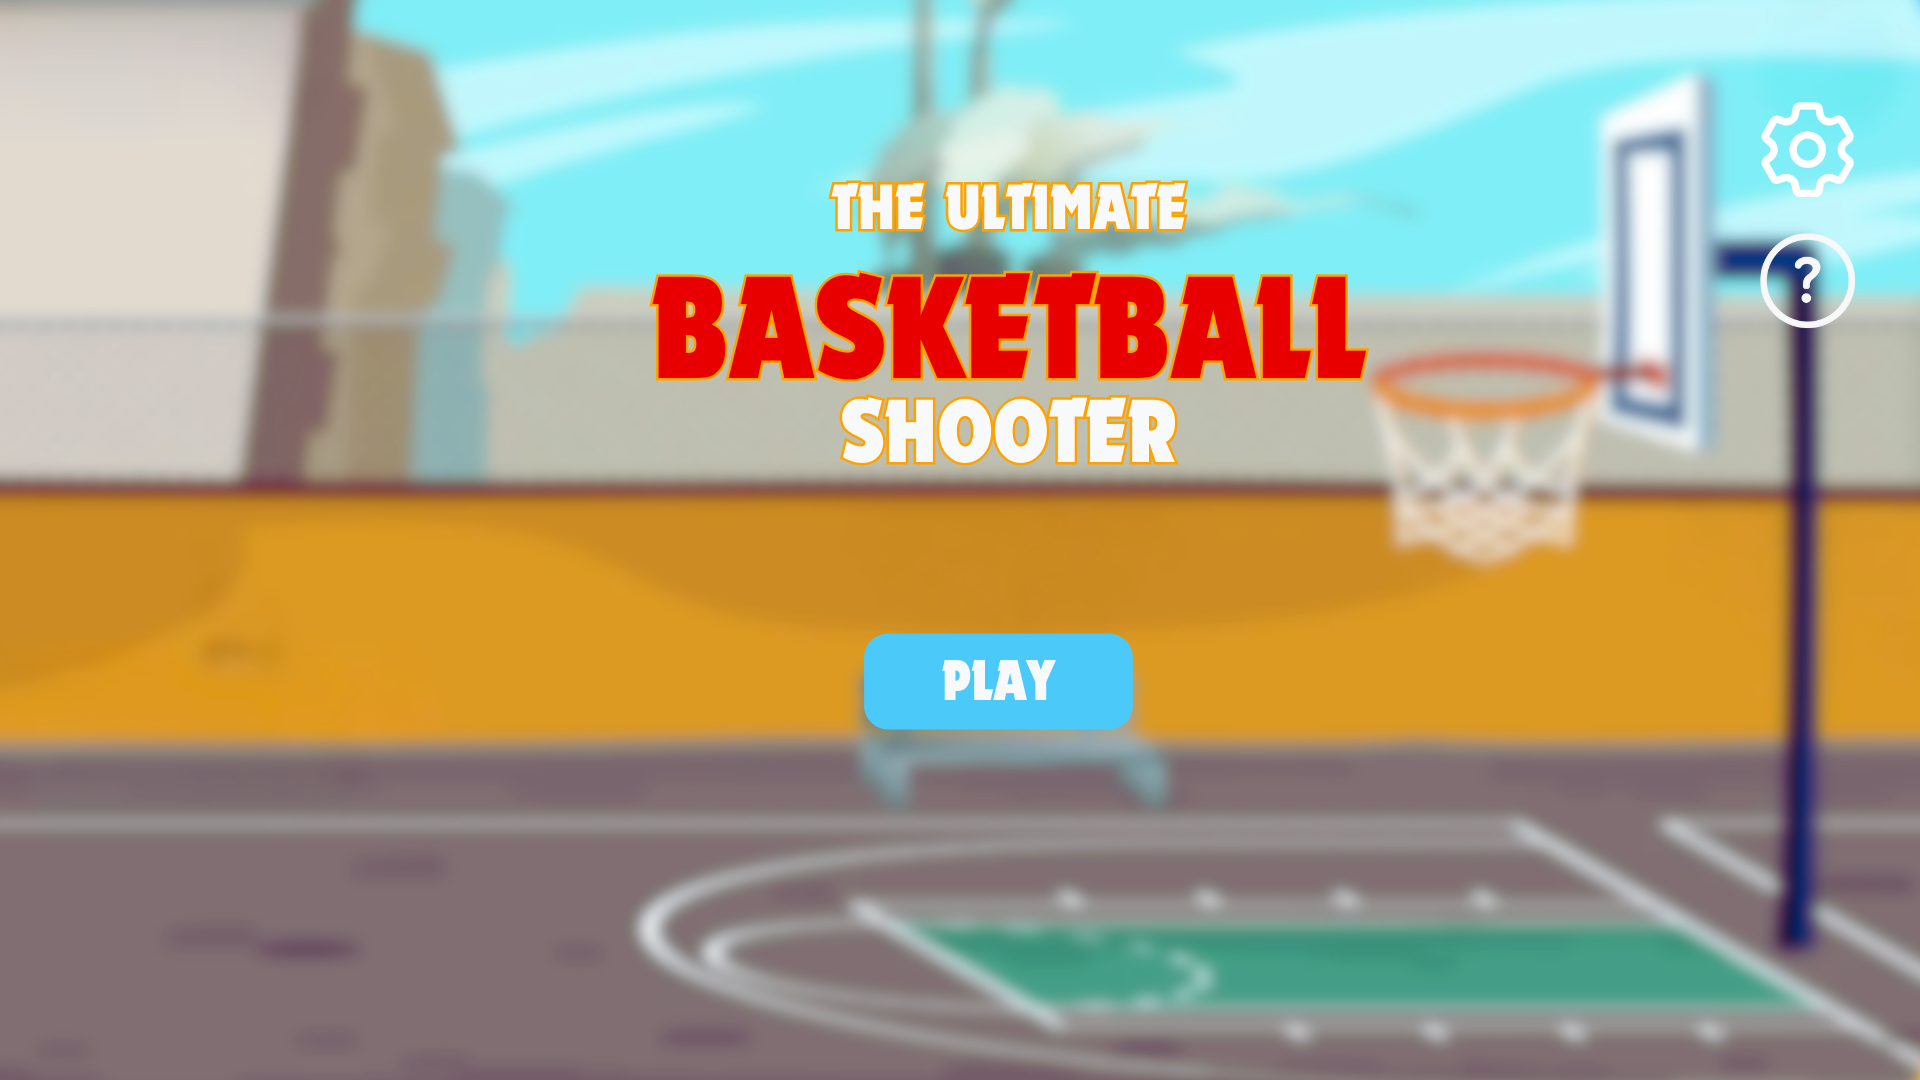
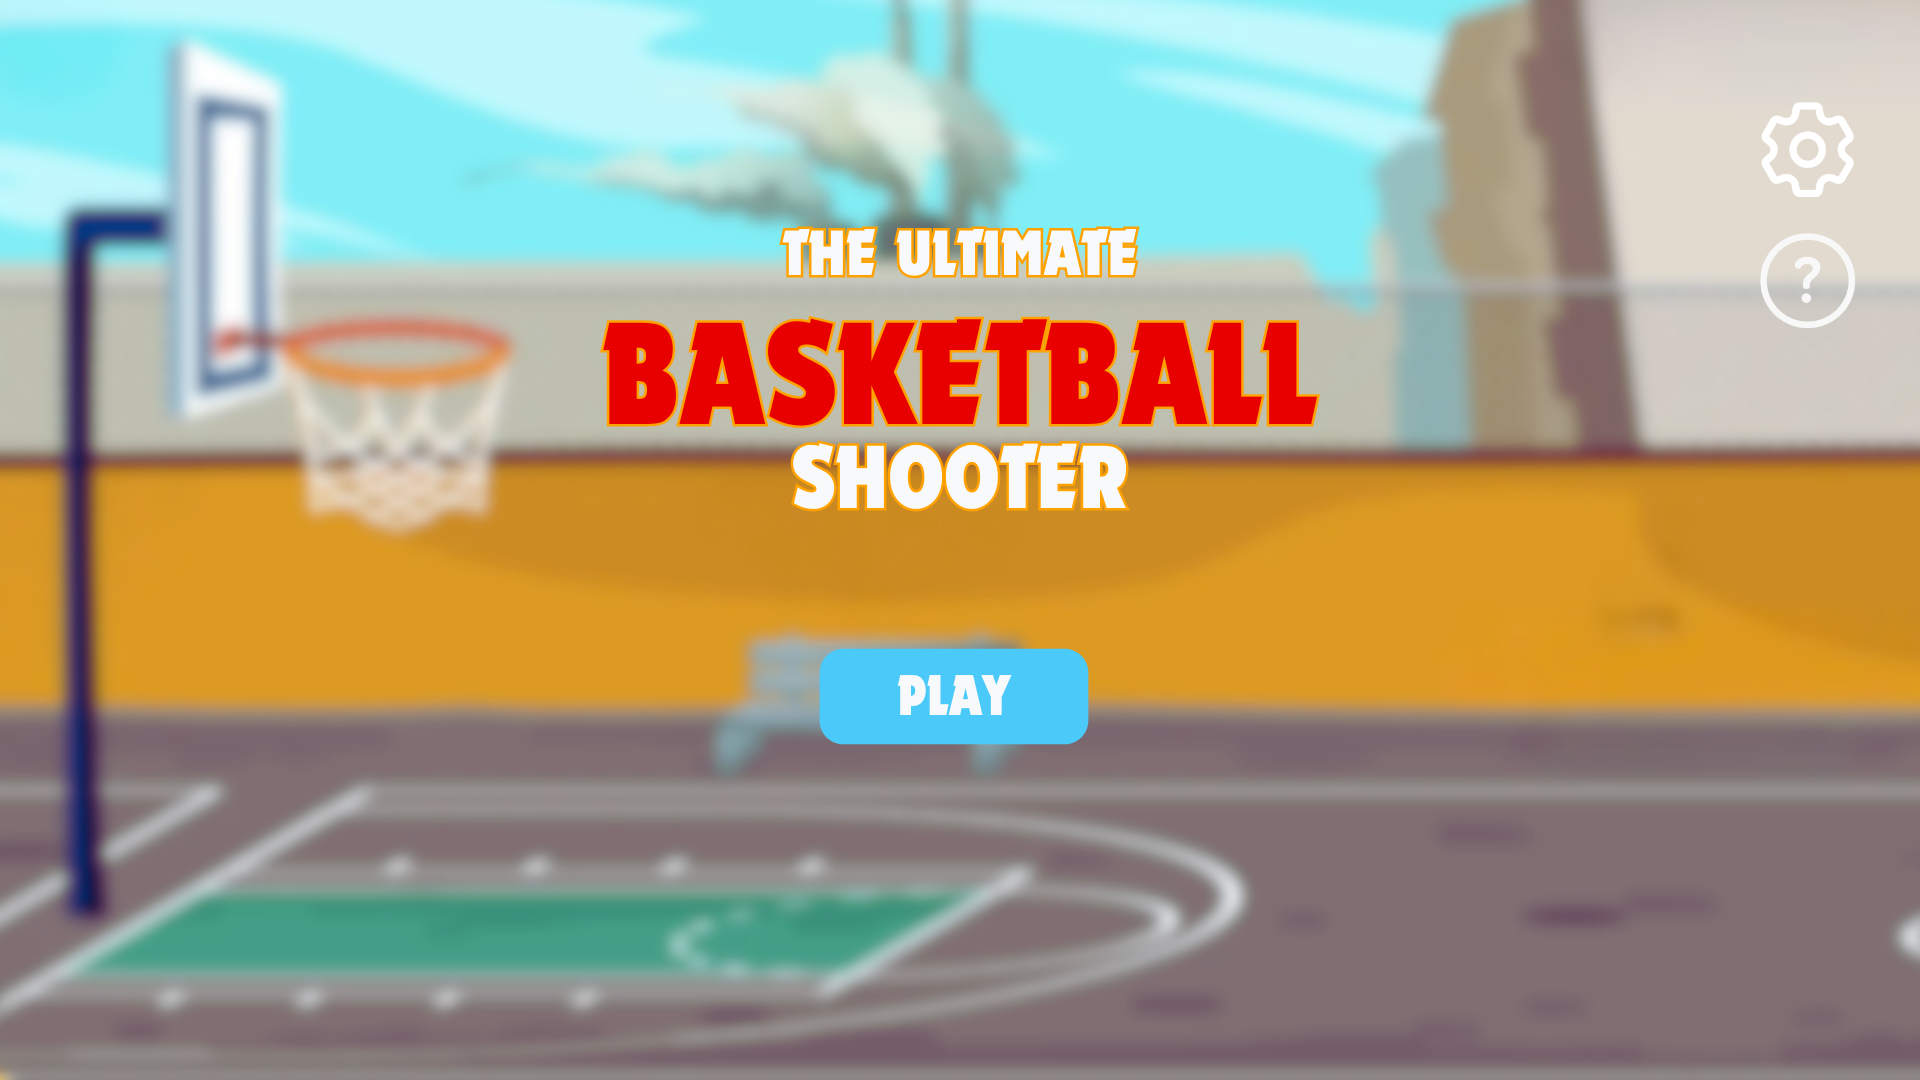
Add GameState, MenuState, Settings State

diff --git a/basketball_game.py b/basketball_game.py
@@ -1,0 +1,84 @@
+import pygame
+import math
+import random
+import sys
+from constants import *
+
+class BasketballGame:
+    def __init__(self):
+        pygame.init()
+        self.screen = pygame.display.set_mode((SCREEN_WIDTH, SCREEN_HEIGHT))
+        pygame.display.set_caption("2D Basketball Game")
+        self.clock = pygame.time.Clock()
+        self.score = 0
+        self.ball_radius = 20
+        self.ball_position = [SCREEN_WIDTH // 2, SCREEN_HEIGHT // 2]
+        self.ball_velocity = [0, 0]
+        self.hoop_position = [SCREEN_WIDTH // 2 - 75, 50]  # Adjusted hoop position
+        self.ground_height = SCREEN_HEIGHT - 20  # Height of the ground
+        self.shooting = False
+
+    def handle_events(self):
+        for event in pygame.event.get():
+            if event.type == pygame.QUIT:
+                pygame.quit()
+                sys.exit()
+            elif event.type == pygame.MOUSEBUTTONDOWN:
+                if event.button == 1:  # Left mouse button
+                    self.shooting = True
+                    self.shot_strength = 0  # Reset shot strength when starting a new shot
+            elif event.type == pygame.MOUSEBUTTONUP:
+                if event.button == 1:  # Left mouse button
+                    self.shooting = False
+                    # self.shoot_ball()
+
+    def update(self):
+        if self.shooting:
+            mouse_pos = pygame.mouse.get_pos()
+            dx = mouse_pos[0] - self.ball_position[0]
+            dy = mouse_pos[1] - self.ball_position[1]
+            self.ball_velocity = [dx / 10, dy / 10]  # Adjust speed range as needed
+        self.ball_velocity[1] += GRAVITY  # Apply gravity
+        self.ball_position[0] += self.ball_velocity[0]
+        self.ball_position[1] += self.ball_velocity[1]
+
+        # Check for ground collision
+        if self.ball_position[1] + self.ball_radius >= self.ground_height:
+            self.ball_position[1] = self.ground_height - self.ball_radius
+            self.ball_velocity[1] = -self.ball_velocity[1] * 0.8  # Reverse and dampen vertical velocity
+
+        # Check for score
+        if self.ball_position[0] + self.ball_radius > self.hoop_position[0] and \
+           self.ball_position[0] - self.ball_radius < self.hoop_position[0] + 150 and \
+           self.ball_position[1] + self.ball_radius > self.hoop_position[1] and \
+           self.ball_position[1] - self.ball_radius < self.hoop_position[1] + 20:
+            self.score += 1
+            self.reset_ball()
+
+    def draw(self):
+        self.screen.fill(WHITE)
+        pygame.draw.circle(self.screen, BLACK, (int(self.ball_position[0]), int(self.ball_position[1])), self.ball_radius)
+        pygame.draw.rect(self.screen, RED, (self.hoop_position[0], self.hoop_position[1], 150, 20))
+        pygame.draw.rect(self.screen, BLACK, (0, self.ground_height, SCREEN_WIDTH, SCREEN_HEIGHT - self.ground_height))
+
+        # Display score
+        font = pygame.font.SysFont(None, 36)
+        score_text = font.render("Score: " + str(self.score), True, BLACK)
+        self.screen.blit(score_text, (10, 10))
+
+        pygame.display.update()
+
+    def reset_ball(self):
+        self.ball_position = [SCREEN_WIDTH // 2, SCREEN_HEIGHT // 2]  # Reset ball position
+        self.ball_velocity = [0, 0]  # Reset ball velocity
+
+    def run(self):
+        while True:
+            self.handle_events()
+            self.update()
+            self.draw()
+            self.clock.tick(60)
+
+if __name__ == "__main__":
+    game = BasketballGame()
+    game.run()

diff --git a/scripts/menuState.py b/scripts/menuState.py
@@ -1,0 +1,57 @@
+import pygame
+from scripts.button import Button
+from scripts.gameState import GameState
+from constants import SCREEN_WIDTH, SCREEN_HEIGHT
+
+class MenuState(GameState):
+    """Main menu of the Basketball shooter"""
+
+    def __init__(self, screen):
+        super().__init__()
+
+        self.screen = screen
+
+        # Load the background image and get its rect.
+        self.background_img = pygame.image.load('assets/images/menu.png')
+        self.background_img = pygame.transform.scale(self.background_img, (SCREEN_WIDTH, SCREEN_HEIGHT))
+        self.background_img_rect = self.background_img.get_rect()
+
+        # Get the screen rect
+        self.screen_rect = screen.get_rect()
+        self.background_img_rect.center = self.screen_rect.center
+
+
+        # Buttons
+        self.start_button = Button(self.screen_rect.centerx - 67, self.screen_rect.centery + 54 , 130, 48)
+        self.settings_button = Button(self.screen_rect.right - 80, 49 , 47, 48)
+        self.instructions_button = Button(self.screen_rect.right - 80, 115, 47, 48)
+
+    
+    def handle_events(self, events):
+
+        # Call the parent class's handle_events method
+        super().handle_events(events)
+
+        # handle keyboard and mouse events
+        for event in events:
+            if event.type == pygame.MOUSEBUTTONDOWN:
+                mouse_pos = pygame.mouse.get_pos()
+
+                if self.start_button.rect.collidepoint(mouse_pos):  
+                    return 'game'
+                elif self.instructions_button.rect.collidepoint(mouse_pos):
+                    return 'instructions'
+                elif self.settings_button.rect.collidepoint(mouse_pos):
+                    return 'settings'
+                
+    def update(self):
+        super().update()
+
+
+    def draw(self):
+        # Draw the background image
+        self.screen.blit(self.background_img, self.background_img_rect)
+        # self.start_button.draw(self.screen)
+        # self.settings_button.draw(self.screen)
+        # self.instructions_button.draw(self.screen)
+        

diff --git a/scripts/settingsState.py b/scripts/settingsState.py
@@ -1,0 +1,49 @@
+import pygame
+from scripts.button import Button
+from scripts.gameState import GameState
+from constants import SCREEN_WIDTH, SCREEN_HEIGHT
+
+class SettingsState(GameState):
+    """Settings menu of the Basketball shooter"""
+
+    def __init__(self, screen):
+        super().__init__()
+
+        self.screen = screen
+
+        # Load the background image and get its rect.
+        self.background_img = pygame.image.load('assets/images/settings.png')
+        self.background_img = pygame.transform.scale(self.background_img, (SCREEN_WIDTH, SCREEN_HEIGHT))
+        self.background_img_rect = self.background_img.get_rect()
+
+        # Get the screen rect
+        self.screen_rect = screen.get_rect()
+        self.background_img_rect.center = self.screen_rect.center
+
+
+        # Buttons
+        self.back_btn = Button(54, 50, 50, 50)
+
+    
+    def handle_events(self, events):
+
+        # Call the parent class's handle_events method
+        super().handle_events(events)
+
+        # handle keyboard and mouse events
+        for event in events:
+            if event.type == pygame.MOUSEBUTTONDOWN:
+                mouse_pos = pygame.mouse.get_pos()
+
+                if self.back_btn.rect.collidepoint(mouse_pos):
+                    return 'menu'
+            
+                
+    def update(self):
+        super().update()
+
+
+    def draw(self):
+        # Draw the background image
+        self.screen.blit(self.background_img, self.background_img_rect)
+        self.back_btn.draw(self.screen)

diff --git a/main.py b/main.py
@@ -1,0 +1,41 @@
+import pygame 
+from constants import *
+from scripts.menuState import MenuState
+from scripts.settingsState import SettingsState
+
+def main():
+    pygame.init()
+    screen = pygame.display.set_mode((SCREEN_WIDTH, SCREEN_HEIGHT))
+    pygame.display.set_caption('Basketball Shooter')
+
+
+    # MenuState object
+    menu_state = MenuState(screen)
+    # SettingsState object
+    settings_state = SettingsState(screen)
+
+
+    current_state = menu_state
+
+    while True:
+
+        # Handle events
+        events = pygame.event.get()
+
+        next_state = current_state.handle_events(events)
+        if next_state == 'menu':
+            current_state = menu_state
+        elif next_state == 'game':
+            pass 
+        elif next_state == 'instructions':
+            pass
+        elif next_state == 'settings':
+            current_state = settings_state
+    
+        current_state.update()
+        current_state.draw()
+
+        pygame.display.flip()
+
+if __name__ == '__main__':
+    main()

diff --git a/scripts/gameState.py b/scripts/gameState.py
@@ -1,0 +1,18 @@
+import pygame
+import sys
+
+class GameState():
+    def __init__(self):
+        pass
+
+    def handle_events(self, events):
+        for event in events:
+            if event.type == pygame.QUIT:
+                pygame.quit()
+                sys.exit()
+
+    def update(self):
+        pass
+
+    def draw(self):
+        pass

diff --git a/scripts/button.py b/scripts/button.py
@@ -1,0 +1,8 @@
+import pygame
+
+class Button():
+    def __init__(self, x, y, width, height):
+        self.rect = pygame.Rect(x, y, width, height)
+
+    def draw(self, screen):
+        pygame.draw.rect(screen, (255, 255, 255), self.rect,2)

diff --git a/constants.py b/constants.py
@@ -1,0 +1,7 @@
+# Define constants
+SCREEN_WIDTH = 960
+SCREEN_HEIGHT = 540
+WHITE = (255, 255, 255)
+BLACK = (0, 0, 0)
+GRAVITY = 0.5
+RED = (255, 0, 0)
